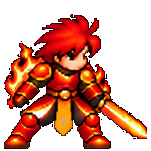
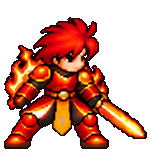
Heroes: one technical spec for all nine forms (same height, frame, feet line, outline, animation set and timings), effects no longer clipped, element motes around heroes in battle; probe shot with all three heroes
Claude-Session: https://claude.ai/code/session_018FD9XXPN18zgpdgkPrG4jT

diff --git a/tools/import_heroes.py b/tools/import_heroes.py
@@ -2,9 +2,15 @@
 Imports the owner's 8x8 battle sheets (tools/art_src/<form_id>.png, black background, facing right) for Kael, Mira
 and Thorne, and writes every hero's portrait as its first idle frame.  Run: python3 tools/import_heroes.py
 
-Sheet rows: 0 idle/basic swing, 1 attack (projectile / shield bash), 2 skill, 3 Burst, 4 hit + stun, 5 poison/freeze,
-6 KO, 7 victory. Frames are kept 1:1 (body ~128 px, drawn x2 in battle like Kael; UI uses ui_scale 0.25).
-Animation frame picks keep the hit/release frames of hero_skills.json (attack 2/4 or release 2, Burst release 4/6).
+Every hero is normalised to the same technical spec, so the roster reads as one set:
+  * same frame (F x F), same feet line (F-4, the game's anchor) and head centred on the same column;
+  * same body height (head top to feet = BODY px), measured on the idle frames and rescaled;
+  * same animation layout, frame counts and speeds (ANIM, taken from the same sheet cells for everyone);
+  * same 1 px dark outline (the black-background removal eats the original one);
+  * effects that run past a grid cell are kept (cells are cut with a margin, neighbours' pieces dropped).
+Sheet rows: 0 idle/basic swing, 1 attack, 2 skill, 3 Burst, 4 hit + stun, 5 poison/freeze, 6 KO, 7 victory.
+Hit timings this implies (hero_skills.json): attack hits on frames 2 and 4 (ranged: release 2), Burst 3/5/7/9
+(self Bursts: release 4).
 """
 import json
 import os
@@ -14,100 +20,137 @@ from scipy import ndimage
 
 ART = os.path.join(os.path.dirname(__file__), 'art_src')
 OUT = os.path.join(os.path.dirname(__file__), '..', 'Content', 'assets', 'characters')
-F = 160                                   # frame size; feet on row F - 4 (the game's anchor), body centred
-ANIMS = {   # name: ([(row, col), ...], fps, loop)
-    'kael': {'idle': ([(0, c) for c in (0, 1, 2, 3)], 5, True),
-             'attack': ([(1, c) for c in (1, 2, 3, 4, 5, 6, 7)], 14, False),             # slashes on 2 and 4
-             'hit': ([(4, c) for c in (0, 0, 3)], 10, False),
-             'victory': ([(7, c) for c in (2, 3, 4, 5, 6, 7)], 6, True),
-             'ko': ([(6, c) for c in range(8)], 10, False),
-             'burst': ([(3, c) for c in (0, 1, 2, 3, 4, 3, 4, 5, 4, 5, 7)], 12, False),   # hits on 3/5/7/9
-             'guard': ([(0, c) for c in (4, 5, 6)], 6, True)},
-    'mira': {'idle': ([(0, c) for c in (0, 1, 2, 3)], 5, True),
-             'attack': ([(1, c) for c in (1, 2, 3, 4, 5, 6, 7)], 12, False),            # bolt leaves on frame 2
-             'hit': ([(4, c) for c in (0, 1, 2, 3)], 10, False),
-             'victory': ([(7, c) for c in range(8)], 8, True),
-             'ko': ([(6, c) for c in range(8)], 10, False),
-             'burst': ([(3, c) for c in (0, 1, 1, 2, 2, 3, 4, 5, 6, 7)], 10, False),    # big wave on frame 6
-             'guard': ([(2, c) for c in (0, 1, 2)], 6, True)},
-    'thorne': {'idle': ([(0, c) for c in (0, 1, 2, 3)], 5, True),
-               'attack': ([(1, c) for c in (0, 1, 2, 3, 5, 6, 7)], 12, False),         # shield 2, quake 4
-               'hit': ([(4, c) for c in (0, 1, 2, 3)], 10, False),
-               'victory': ([(7, c) for c in range(8)], 8, True),
-               'ko': ([(6, c) for c in range(8)], 10, False),
-               'burst': ([(3, c) for c in range(8)], 10, False),                       # earth spikes on 4
-               'guard': ([(0, c) for c in (4, 5, 6)], 6, True)},
+F, BODY, M = 256, 124, 72          # frame size, head-to-feet height, cut margin around each source cell
+OUTLINE = (26, 14, 22, 255)
+ANIM = {   # name: ([(row, col), ...], fps, loop) - identical for every hero
+    'idle': ([(0, c) for c in (0, 1, 2, 3)], 5, True),
+    'attack': ([(1, c) for c in (1, 2, 3, 4, 5, 6, 7)], 14, False),
+    'hit': ([(4, c) for c in (0, 1, 2, 3)], 10, False),
+    'victory': ([(7, c) for c in range(8)], 8, True),
+    'ko': ([(6, c) for c in range(8)], 10, False),
+    'burst': ([(3, c) for c in (0, 1, 2, 3, 4, 3, 4, 5, 4, 5, 7)], 12, False),
+    'guard': ([(0, c) for c in (4, 5, 6)], 6, True),
 }
+HEROES = {'kael': ('emberclaw', 'blazeheart', 'cinderlord'), 'mira': ('tidesong', 'tidecaller', 'wavesage'),
+          'thorne': ('mossguard', 'oakwarden', 'ancientroot')}
 
 
 def cells(path):
-    """-> 8x8 RGBA cells with the connected black background made transparent."""
+    """-> 8x8 RGBA crops (cell + margin M) with the black background removed and neighbours' pieces dropped."""
     a = np.array(Image.open(path).convert('RGB'))
-    n = a.shape[0] / 8
+    H, W = a.shape[:2]
+    n = H / 8
+    pad = np.zeros((H + 2 * M, W + 2 * M, 3), np.uint8)
+    pad[M:M + H, M:M + W] = a
     out = []
     for r in range(8):
         row = []
         for c in range(8):
-            cell = a[round(r * n):round((r + 1) * n), round(c * n):round((c + 1) * n)]
-            lab, _ = ndimage.label(cell.max(-1) <= 10)
+            y0, x0 = round(r * n), round(c * n)
+            y1, x1 = round((r + 1) * n), round((c + 1) * n)
+            crop = pad[y0:y1 + 2 * M, x0:x1 + 2 * M]
+            lab, _ = ndimage.label(crop.max(-1) <= 10)
             edge = set(np.unique(np.r_[lab[0], lab[-1], lab[:, 0], lab[:, -1]])) - {0}
-            alpha = np.where(np.isin(lab, list(edge)), 0, 255).astype(np.uint8)
-            fg, _ = ndimage.label(alpha > 0)   # specks bleeding in from neighbouring cells
-            sizes = np.bincount(fg.ravel())
-            for k in set(np.unique(np.r_[fg[0], fg[-1], fg[:, 0], fg[:, -1]])) - {0}:
-                if sizes[k] < 60:
-                    alpha[fg == k] = 0
-            row.append(Image.fromarray(np.dstack([cell, alpha]), 'RGBA'))
+            fg = ~np.isin(lab, list(edge))
+            parts, k = ndimage.label(fg, structure=np.ones((3, 3)))
+            keep = np.zeros_like(fg)
+            if k:
+                cys = ndimage.mean(np.indices(fg.shape)[0], parts, range(1, k + 1))
+                cxs = ndimage.mean(np.indices(fg.shape)[1], parts, range(1, k + 1))
+                sizes = ndimage.sum(fg, parts, range(1, k + 1))
+                for i, (cy, cx, sz) in enumerate(zip(cys, cxs, sizes), 1):
+                    inside = M <= cy < M + (y1 - y0) and M <= cx < M + (x1 - x0)
+                    if inside and sz >= 12:   # its own pieces (centre inside the cell), no specks
+                        piece = parts == i
+                        xs = np.nonzero(piece.any(0))[0]
+                        # fused with a neighbour's pose: its feet stand on the ground row outside this cell -> cut that
+                        # side at the cell edge (effects, even big ones, don't stand on the ground there)
+                        w, gy = x1 - x0, np.nonzero(piece.any(1))[0].max()
+                        ground = np.nonzero(piece[max(0, gy - 6):gy + 1].any(0))[0]
+                        cov = piece.sum(0)   # cut along the emptiest column between the two poses
+                        if ground.min() < M - 0.25 * w:
+                            lo, hi = int(M - 0.35 * w), int(M + 0.1 * w)
+                            piece[:, :lo + int(np.argmin(cov[lo:hi]))] = False
+                        if ground.max() > M + 1.25 * w:
+                            lo, hi = int(M + 0.9 * w), int(M + 1.35 * w)
+                            piece[:, lo + int(np.argmin(cov[lo:hi])):] = False
+                        keep |= piece
+            row.append(Image.fromarray(np.dstack([crop, np.where(keep, 255, 0).astype(np.uint8)]), 'RGBA'))
         out.append(row)
     return out
 
 
-def place(cell, dx, dy):
-    fr = Image.new('RGBA', (F, F), (0, 0, 0, 0))
-    fr.alpha_composite(cell, (dx, dy))
-    return fr
+def head_and_feet(img):
+    """(head top y, feet y, head centre x): the head is the first row with a solid run >= 18 px."""
+    a = np.array(img)[..., 3] > 0
+    feet = np.nonzero(a.any(1))[0].max()
+    for y in range(a.shape[0]):
+        runs, best, cur, start = a[y], (0, 0), 0, 0
+        for x, v in enumerate(runs):
+            if v:
+                if cur == 0:
+                    start = x
+                cur += 1
+                if cur > best[0]:
+                    best = (cur, start)
+            else:
+                cur = 0
+        if best[0] >= 18:
+            rows = a[y:y + 24]
+            xs = np.nonzero(rows.any(0))[0]
+            mid = best[1] + best[0] / 2
+            near = xs[np.abs(xs - mid) < 26]
+            return y, feet, float(near.mean())
+    return 0, feet, a.shape[1] / 2
+
+
+def outline(img):
+    a = np.array(img)
+    solid = a[..., 3] > 0
+    ring = np.zeros_like(solid)
+    ring[1:] |= solid[:-1]; ring[:-1] |= solid[1:]; ring[:, 1:] |= solid[:, :-1]; ring[:, :-1] |= solid[:, 1:]
+    ring &= ~solid
+    a[ring] = OUTLINE
+    return Image.fromarray(a, 'RGBA')
 
 
 def portrait(frame):
-    bb = frame.getbbox()
-    c = frame.crop(bb)
+    c = frame.crop(frame.getbbox())
     s = max(c.size) + 8
     out = Image.new('RGBA', (s, s), (0, 0, 0, 0))
     out.alpha_composite(c, ((s - c.width) // 2, s - c.height - 2))
     return out
 
 
-def import_sheet(fid, anims):
+def import_sheet(fid):
     cs = cells(os.path.join(ART, fid + '.png'))
-    x0, y0, x1, y1 = cs[0][0].getbbox()            # idle frame: put its feet on F-4, centred
-    dx, dy = round(F / 2 - (x0 + x1) / 2), F - 4 - y1
-    sheet = Image.new('RGBA', (max(len(v[0]) for v in anims.values()) * F, len(anims) * F), (0, 0, 0, 0))
-    meta = {'frame_size': [F, F], 'ui_scale': 0.25, 'source': f'tools/art_src/{fid}.png', 'animations': {}}
-    for ri, (name, (frames, fps, loop)) in enumerate(anims.items()):
+    probes = [head_and_feet(cs[0][c]) for c in range(4)]
+    h = float(np.median([f - t for t, f, _ in probes]))
+    s = BODY / h                                       # same body height for every hero / form
+    _, feet, hx = probes[0]
+    sheet = Image.new('RGBA', (max(len(v[0]) for v in ANIM.values()) * F, len(ANIM) * F), (0, 0, 0, 0))
+    meta = {'frame_size': [F, F], 'layout_size': [200, 200], 'ui_scale': 0.25, 'source': f'tools/art_src/{fid}.png', 'animations': {}}
+    for ri, (name, (frames, fps, loop)) in enumerate(ANIM.items()):
         for ci, (r, c) in enumerate(frames):
-            sheet.alpha_composite(place(cs[r][c], dx, dy), (ci * F, ri * F))
+            cell = cs[r][c]
+            sc = cell.convert('RGBa').resize((round(cell.width * s), round(cell.height * s)), Image.LANCZOS).convert('RGBA')
+            al = np.array(sc)
+            al[..., 3] = np.where(al[..., 3] >= 128, 255, 0)   # crisp edges again after resampling
+            sc = Image.fromarray(al, 'RGBA')
+            fr = Image.new('RGBA', (F, F), (0, 0, 0, 0))
+            fr.alpha_composite(sc, (round(F / 2 - hx * s), round(F - 4 - feet * s)))
+            sheet.alpha_composite(outline(fr), (ci * F, ri * F))
         meta['animations'][name] = {'row': ri, 'frames': len(frames), 'fps': fps, 'loop': loop}
     d = os.path.join(OUT, fid)
     os.makedirs(d, exist_ok=True)
     sheet.save(os.path.join(d, fid + '_sheet.png'))
     with open(os.path.join(d, fid + '_sheet.json'), 'w') as f:
         json.dump(meta, f, indent=1)
-
-
-def portraits():
-    """Every hero's portrait = its first idle frame."""
-    for fid in sorted(os.listdir(OUT)):
-        meta = json.load(open(os.path.join(OUT, fid, fid + '_sheet.json')))
-        fw, fh = meta['frame_size']
-        row = meta['animations']['idle']['row']
-        sheet = Image.open(os.path.join(OUT, fid, fid + '_sheet.png'))
-        portrait(sheet.crop((0, row * fh, fw, (row + 1) * fh))).save(os.path.join(OUT, fid, fid + '_portrait.png'))
+    portrait(sheet.crop((0, 0, F, F))).save(os.path.join(d, fid + '_portrait.png'))
+    return s
 
 
 if __name__ == '__main__':
-    for fam, forms in {'kael': ('emberclaw', 'blazeheart', 'cinderlord'), 'mira': ('tidesong', 'tidecaller', 'wavesage'),
-                       'thorne': ('mossguard', 'oakwarden', 'ancientroot')}.items():
+    for fam, forms in HEROES.items():
         for form in forms:
-            import_sheet(f'{fam}_{form}', ANIMS[fam])
-            print(f'{fam}_{form}')
-    portraits()
+            print(f'{fam}_{form}', 'scale %.3f' % import_sheet(f'{fam}_{form}'))

diff --git a/Source/app/App.cpp b/Source/app/App.cpp
@@ -678,6 +678,14 @@ static void run_shots(std::shared_ptr<std::vector<std::string>> list, size_t i, 
         file = "battle_" + GM.current_stage_id;
         name = "battle";
     }
+    if (name == "battle_party")   // all three heroes side by side (art check)
+    {
+        if (GM.party_uids().size() < 3)
+            for (auto id : {"mira_tidesong", "thorne_mossguard"}) GM.profile["party"].push_back(GM.add_unit(id, false));
+        GM.current_stage_id = "ashroot_02";
+        file = name;
+        name = "battle";
+    }
     if (name == "battle" && GM.current_stage_id.empty()) GM.current_stage_id = "ashroot_01";
     SceneRouter::transitioning = false;
     SceneRouter::go(name, name == "battle" ? Json{{"skip_hints", true}} : Json::object(), "reset");

diff --git a/Source/battle/BattleViews.cpp b/Source/battle/BattleViews.cpp
@@ -359,6 +359,9 @@ void BattleUnitView::build()
     // names, HP and statuses live in the HUD plates / cards (the Godot overhead bar is always hidden)
     if (is_boss()) add_boss_aura();
     else if (combatant->is_elite) add_boss_aura(Col("#ffe07a"), Col("#ffb03a"), 8);
+    else if (combatant->is_player)   // heroes breathe their element: a few motes, more with each evolution
+        add_boss_aura(Col(DB.element_color(combatant->element)).lightened(0.35f), Col::WHITE,
+                      2 + 2 * std::max(0, I(combatant->def, "rarity", 3) - 2));
 }
 
 // Slow drifting spores and embers around an Ancient foe.

diff --git a/Source/ui/Sprites.cpp b/Source/ui/Sprites.cpp
@@ -36,6 +36,8 @@ gd::Vec2 frame_size(const Json& def)
 {
     const Json& m = meta_of(def);
     if (!m.contains("frame_size")) return gd::Vec2(48, 48);
+    if (m.contains("layout_size"))   // big padded frames (room for effects) lay out like this smaller box
+        return gd::Vec2((float)I(at(m["layout_size"], 0), 48), (float)I(at(m["layout_size"], 1), 48));
     return gd::Vec2((float)I(at(m["frame_size"], 0), 48), (float)I(at(m["frame_size"], 1), 48));
 }
 

diff --git a/CLAUDE.md b/CLAUDE.md
@@ -38,7 +38,9 @@ Python scripts in `tools/` (they write into `Content/`).
 - Art: owner reverted Phase 6 (art bible); new visuals reuse/tint existing sheets until told otherwise.
 - Only the three starters (Kael, Mira, Thorne) are playable (`FAMILY_ORDER` in make_content.py). All their sheets are
   owner art: `tools/art_src/<form>.png` (8x8 battle grids) -> `python3 tools/import_heroes.py`, which also writes every
-  hero's portrait as its first idle frame. Windows builds write `Cinderbound.log` next to the exe.
+  hero's portrait as its first idle frame. The importer normalises every hero to one spec (256 px frames,
+  `layout_size` 200 for battle layout, 124 px head-to-feet, feet row 252, same 7 animations from the same sheet cells,
+  1 px outline). Heroes get element motes in battle. Windows builds write `Cinderbound.log` next to the exe.
 
 ## Gotchas
 - Windows macros: never name things `small`, `near`, `far`, `TRANSPARENT`, `ERROR`, `IN`, `OUT`, ... and never
